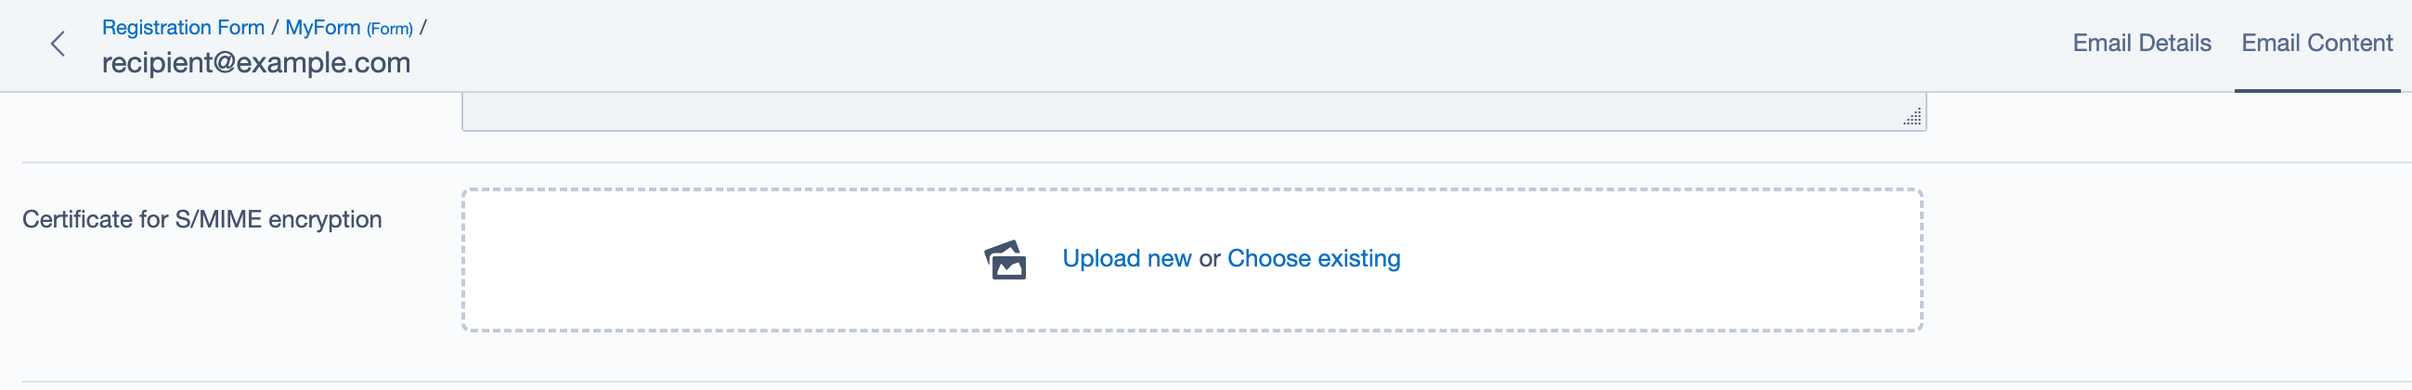
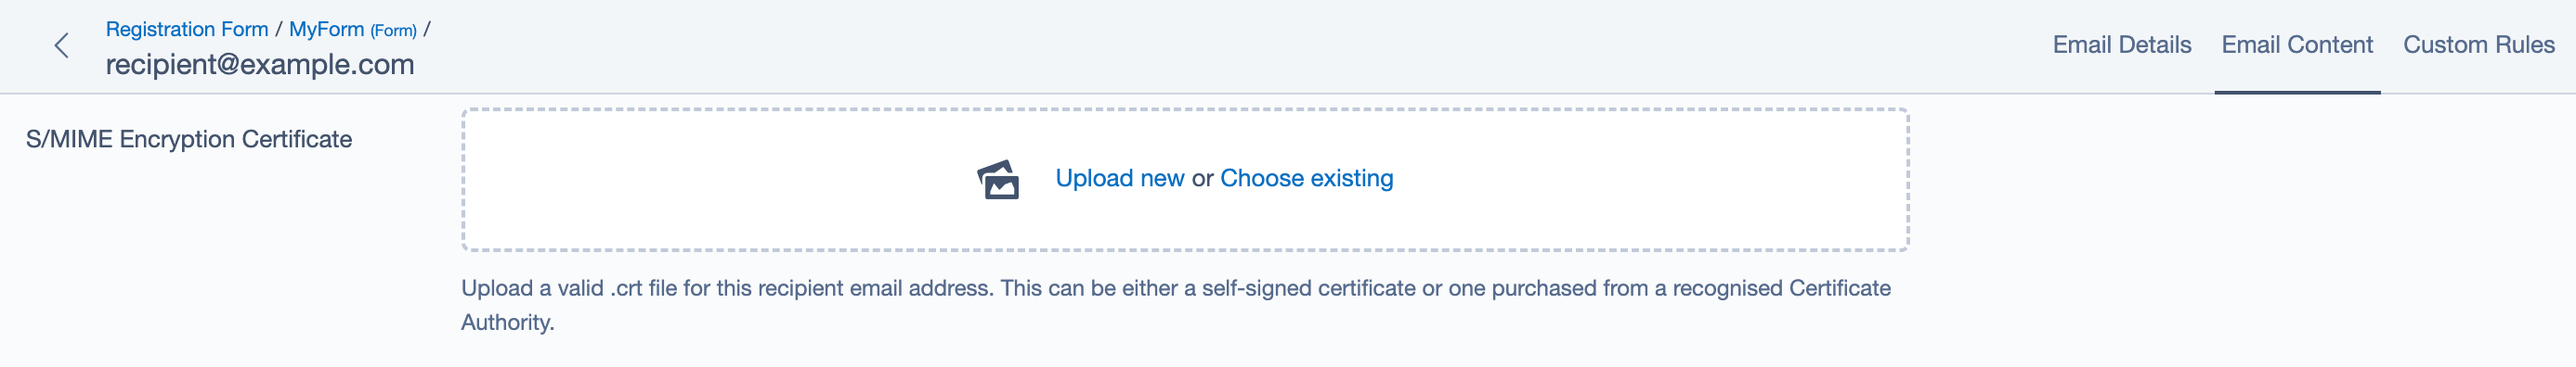
Tidy up field descriptions

diff --git a/src/Extensions/EmailRecipientExtension.php b/src/Extensions/EmailRecipientExtension.php
@@ -53,9 +53,12 @@ class EmailRecipientExtension extends DataExtension
         // Show field for uploading the encryption certificate for this recipient
         $fields->insertAfter(
             'EmailBody',
-            UploadField::create('EncryptionCrt', 'Certificate for S/MIME encryption')
+            UploadField::create('EncryptionCrt', 'S/MIME Encryption Certificate')
                 ->setFolderName(self::$uploadFolder)
                 ->setAllowedExtensions(['crt'])
+                ->setDescription('Upload a valid .crt file for this recipient email address. '
+                    . 'This can be either a self-signed certificate or one purchased from a '
+                    . 'recognised Certificate Authority.')
         );
 
         return $fields;

diff --git a/src/Extensions/ElementFormExtension.php b/src/Extensions/ElementFormExtension.php
@@ -30,7 +30,9 @@ class ElementFormExtension extends DataExtension
     public function updateCMSFields(FieldList $fields): FieldList
     {
         $fields->addFieldsToTab('Root.FormOptions', [
-            CheckboxField::create('UseEncryption', 'Use S/MIME encryption when sending form submission emails'),
+            CheckboxField::create('UseEncryption', 'Enable S/MIME Encryption')
+                ->setDescription('Enabling this will encrypt form submission emails. Encryption certificates'
+                    . ' will need to be uploaded for each recipient.'),
         ]);
 
         return $fields;

diff --git a/README.md b/README.md
@@ -33,8 +33,7 @@ specifically useful when you are sending emails to known recipients, and require
 certificate (.crt file) containing their public encryption key for encrypting.
 
 ### Enable Encryption
-To enable encryption, go to the Configuration tab for your form and enable the Use **SMIME encryption when sending submission
-emails** checkbox.
+To enable encryption, go to the **Configuration** tab for your form and check the Use **Enable S/MIME Encryption** option.
 
 ![](./docs/assets/EncryptionOption.png)
 
